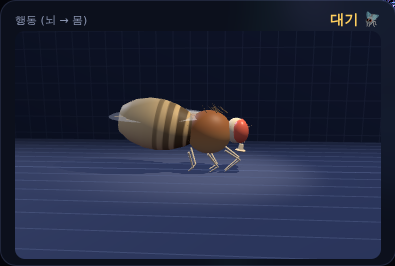
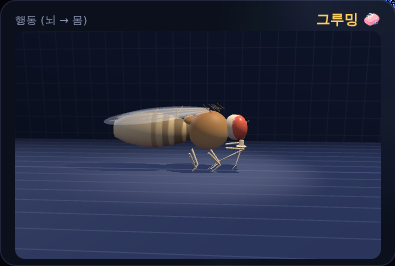
욕조 반신욕 씬 추가 + 몸매 슬림화·날개 파묻힘 수정
- 욕조 소품(도기 셸·테두리 토러스·물 표면·발·와인잔): 에탄올
  0.62~0.85 구간에서 페이드 인, 초파리가 걸어가 뒤로 기대 반신욕
  (물 표면 렌더오더로 하반신 잠김 연출, 잔물결)
- 와인 홀짝은 0.45~0.62 구간으로 조정 — 홀짝 → 반신욕 → 침대 순
  으로 취함 단계가 이어진다
- 복부 유선형 슬림화(최대 반경 -20%, 테이퍼 강화)와 가슴 축소,
  날개 힌지를 위·바깥으로 이동해 복부 파묻힘 제거
- 행동 회귀 테스트 전부 통과

Claude-Session: https://claude.ai/code/session_015GYvxeG6sLQg6feUenvueb

diff --git a/web/js/fly3d.js b/web/js/fly3d.js
@@ -7,6 +7,7 @@ const BOUND = 3.6;        // 걸어다닐 수 있는 x 범위
 const BED_POS = -2.55;    // 침대 위치
 const MATTRESS_TOP = 0.78;
 const PUDDLE_X = 3.0;     // 쏟아진 와인 위치
+const TUB_POS = -0.55;    // 욕조 위치
 
 function bandTexture() {
   // 복부 텍스처. 구를 rotateZ(90°)로 눕혔으므로 몸축 방향이 v(위도)다:
@@ -128,6 +129,8 @@ export class Fly3D {
     this.spill = 0;
     this.standT = 0;           // 난간에 기대 서 있는 정도 0..1
     this.balconyO = 0;
+    this.bathT = 0;            // 욕조에 들어가 있는 정도 0..1
+    this.tubO = 0;
     this.rates = { fwd: 0, back: 0, jump: 0, prob: 0, dn: 0, motor: 0, brain: 0 };
     this.s = { fwd: 0, back: 0, jump: 0, prob: 0 };
     this.behavior = '대기';
@@ -233,26 +236,27 @@ export class Fly3D {
 
     // 복부: 매끈한 방추형 회전체 — 가슴 쪽에서 불룩했다가 꼬리로 뾰족해진다
     const prof = [];
+    // 날렵한 유선형: 최대 반경을 줄이고 더 길게 테이퍼
     const profPts = [
-      [0.02, 0], [0.55, 0.06], [0.86, 0.5], [1.02, 1.05], [1.04, 1.55],
-      [0.94, 2.05], [0.72, 2.55], [0.45, 2.95], [0.2, 3.2], [0.02, 3.32],
+      [0.02, 0], [0.4, 0.06], [0.64, 0.5], [0.78, 1.05], [0.8, 1.6],
+      [0.7, 2.1], [0.53, 2.6], [0.33, 3.0], [0.15, 3.25], [0.02, 3.4],
     ];
     for (const [r, y] of profPts) prof.push(new THREE.Vector2(r, y));
     const abdGeo = new THREE.LatheGeometry(prof, 40);
-    abdGeo.translate(0, -3.32, 0);                   // 끝(꼬리)을 원점 기준으로
+    abdGeo.translate(0, -3.4, 0);                    // 끝(꼬리)을 원점 기준으로
     abdGeo.rotateZ(-Math.PI / 2);                    // +X가 머리 방향, 밴드는 v 방향
     this.abd = M(abdGeo, bodyMat);
-    this.abd.scale.set(1.02, 0.96, 0.9);
-    this.abd.position.set(0.32, 0.33, 0);            // 앞끝을 가슴 속에 파묻는다
-    this.abd.rotation.z = -0.16;                     // 꼬리가 살짝 내려가게
+    this.abd.scale.set(1.06, 0.85, 0.72);
+    this.abd.position.set(0.34, 0.36, 0);            // 앞끝을 가슴 속에 파묻는다
+    this.abd.rotation.z = -0.12;                     // 꼬리가 살짝 내려가게
 
-    this.thx = M(new THREE.SphereGeometry(0.88, 40, 28), thxMat);
-    this.thx.scale.set(1.0, 0.95, 0.86);
-    this.thx.position.set(0.42, 0.36, 0);
+    this.thx = M(new THREE.SphereGeometry(0.8, 40, 28), thxMat);
+    this.thx.scale.set(1.0, 0.95, 0.8);
+    this.thx.position.set(0.45, 0.4, 0);
     // 소순판(scutellum): 가슴 뒤쪽의 작은 혹
-    const scu = M(new THREE.SphereGeometry(0.34, 20, 14), thxMat);
+    const scu = M(new THREE.SphereGeometry(0.3, 20, 14), thxMat);
     scu.scale.set(1.1, 0.7, 0.9);
-    scu.position.set(-0.28, 0.82, 0);
+    scu.position.set(-0.2, 0.82, 0);
 
     this.head = M(new THREE.SphereGeometry(0.5, 32, 24), headMat);
     this.head.scale.set(0.78, 0.98, 0.85);
@@ -322,7 +326,7 @@ export class Fly3D {
     this.wings = [];
     for (const sz of [-1, 1]) {
       const hinge = new THREE.Group();
-      hinge.position.set(0.55, 1.0, sz * 0.13);
+      hinge.position.set(0.5, 1.18, sz * 0.2);       // 복부 위로 띄워 파묻힘 방지
       fly.add(hinge);
       const wmat = new THREE.MeshStandardMaterial({
         color: 0xdfe6f2, transparent: true, opacity: 0.45, side: THREE.DoubleSide,
@@ -341,7 +345,7 @@ export class Fly3D {
         const vg = new THREE.BufferGeometry().setFromPoints(curve.getPoints(20));
         w.add(new THREE.Line(vg, vmat));
       }
-      hinge.rotation.y = sz * 0.13;
+      hinge.rotation.y = sz * 0.17;
       this.wings.push({ hinge, sz });
     }
 
@@ -495,6 +499,41 @@ export class Fly3D {
     building.position.set(2, 5.6, -7.3);
     balG.add(building);
     scene.add(mkFadeGroup(balG));
+
+    // ── 욕조 (만취 반신욕 씬) ──────────────────
+    const tubG = this.tubG = new THREE.Group();
+    const tubMat = new THREE.MeshStandardMaterial({ color: 0xe9edf5, roughness: 0.35, side: THREE.DoubleSide });
+    const shell = new THREE.Mesh(new THREE.CylinderGeometry(1.02, 0.78, 0.85, 28, 1, true), tubMat);
+    shell.scale.set(1.55, 1, 0.85);
+    shell.position.y = 0.52;
+    shell.castShadow = true;
+    const rimT = new THREE.Mesh(new THREE.TorusGeometry(1.0, 0.085, 12, 36), tubMat);
+    rimT.rotation.x = Math.PI / 2;
+    rimT.scale.set(1.55, 0.85, 1);
+    rimT.position.y = 0.95;
+    const tubBottom = new THREE.Mesh(new THREE.CircleGeometry(0.8, 28), tubMat);
+    tubBottom.rotation.x = -Math.PI / 2;
+    tubBottom.scale.set(1.55, 0.85, 1);
+    tubBottom.position.y = 0.12;
+    this.waterMesh = new THREE.Mesh(new THREE.CircleGeometry(0.97, 28),
+      new THREE.MeshStandardMaterial({ color: 0x59b6d8, transparent: true, opacity: 0.72, roughness: 0.15 }));
+    this.waterMesh.rotation.x = -Math.PI / 2;
+    this.waterMesh.scale.set(1.5, 0.8, 1);
+    this.waterMesh.position.y = 0.78;
+    this.waterMesh.renderOrder = 5;
+    this.waterMesh.material.depthWrite = false;
+    for (const [fx2, fz2] of [[-1.25, 0.55], [1.25, 0.55], [-1.25, -0.55], [1.25, -0.55]]) {
+      const foot = new THREE.Mesh(new THREE.SphereGeometry(0.12, 10, 8), tubMat);
+      foot.position.set(fx2, 0.1, fz2);
+      tubG.add(foot);
+    }
+    const tubGlass = new THREE.Mesh(
+      new THREE.CylinderGeometry(0.11, 0.075, 0.26, 14, 1, true),
+      new THREE.MeshStandardMaterial({ color: 0xdfe8fa, roughness: 0.15, transparent: true, opacity: 0.4, side: THREE.DoubleSide }));
+    tubGlass.position.set(1.15, 1.08, 0.45);
+    tubG.add(shell, rimT, tubBottom, this.waterMesh, tubGlass);
+    tubG.position.set(TUB_POS, 0, 0.05);
+    scene.add(mkFadeGroup(tubG));
   }
 
   setRates(r) { Object.assign(this.rates, r); }
@@ -546,7 +585,8 @@ export class Fly3D {
     const flying = this.flightT > 0 && upright > 0.6;
 
     // 와인 홀짝: 쏟아진 와인이 있고 적당히 취했을 때 웅덩이로 걸어가 마신다
-    const wantSip = this.spill > 0.7 && eth > 0.45 && upright > 0.7 &&
+    // (0.62를 넘으면 욕조 반신욕으로 넘어간다)
+    const wantSip = this.spill > 0.7 && eth > 0.45 && eth <= 0.62 && upright > 0.7 &&
                     !flying && this.jumpT < 0 && !feeding && Math.abs(speed) < 0.1;
     let sipping = false, sipWalk = 0;
     if (wantSip) {
@@ -556,10 +596,24 @@ export class Fly3D {
     }
     this.sip += ((sipping ? 1 : 0) - this.sip) * Math.min(1, dt * 3);
 
-    // 난간 흡연: 니코틴이 있으면 난간으로 걸어가 두 발로 서서 태운다
+    // 욕조 반신욕: 만취 구간(0.62~0.85)이면 욕조로 걸어가 몸을 담근다
+    const wantBath = eth > 0.62 && upright > 0.7 && !flying && this.jumpT < 0 && !feeding;
+    let bathWalk = 0, bathing = false;
+    if (wantBath) {
+      const dxb = TUB_POS - this.x;
+      if (Math.abs(dxb) > 0.15 && this.bathT < 0.3) { bathWalk = Math.sign(dxb); this.dir = Math.sign(dxb) || 1; }
+      else { bathing = true; this.dir = 1; }
+    }
+    this.bathT += ((bathing ? 1 : 0) - this.bathT) * Math.min(1, dt * 2);
+    this.tubO += (((eth > 0.62 && this.passT < 0.3) ? 1 : 0) - this.tubO) * Math.min(1, dt * 2);
+    this._fade(this.tubG, this.tubO);
+    this.waterMesh.position.y = 0.78 + Math.sin(this.t * 2.4) * 0.012;
+
+    // 난간 흡연: 니코틴이 있으면 난간으로 걸어가 두 발로 서서 태운다 (욕조 중엔 안 함)
     const STAND_X = 0.62;
     const wantStand = this.nic > 0.2 && upright > 0.7 && !flying && this.jumpT < 0 &&
-                      !sipping && sipWalk === 0 && !feeding && Math.abs(speed) < 0.12;
+                      !sipping && sipWalk === 0 && !feeding && Math.abs(speed) < 0.12 &&
+                      !wantBath && this.bathT < 0.2;
     let standWalk = 0, standing = false;
     if (wantStand) {
       const dxs = STAND_X - this.x;
@@ -577,7 +631,8 @@ export class Fly3D {
 
     // 그루밍: 한가할 때 가끔 앞다리를 비빈다
     const idle = !walkingLikely(speed, sipWalk) && !flying && this.jumpT < 0 &&
-                 upright > 0.9 && !feeding && !sipping && this.hicT <= 0 && this.standT < 0.2;
+                 upright > 0.9 && !feeding && !sipping && this.hicT <= 0 &&
+                 this.standT < 0.2 && this.bathT < 0.2;
     function walkingLikely(sp, sw) { return Math.abs(sp) > 0.06 || sw !== 0; }
     if (idle && this.groomT <= 0 && Math.random() < dt * 0.12) this.groomT = 2.6;
     if (!idle) this.groomT = 0;
@@ -604,7 +659,9 @@ export class Fly3D {
     // ── 이동 ─────────────────────────────────
     let vx = 0;
     if (this.jumpT < 0 && upright > 0.6 && !flying) {
-      vx = ((sipWalk || standWalk) !== 0 ? (sipWalk || standWalk) * 1.3 : speed * 2.3 * this.dir) * upright * (1 - this.standT);
+      const propWalk = sipWalk || standWalk || bathWalk;
+      vx = (propWalk !== 0 ? propWalk * 1.3 : speed * 2.3 * this.dir) * upright *
+           (1 - this.standT) * (1 - this.bathT);
       if (eth > 0.1) {
         this._staggerVx += (Math.random() - 0.5) * eth * 6.5 * dt;
         this._staggerVx *= 1 - Math.min(1, dt * 2.5);
@@ -614,13 +671,15 @@ export class Fly3D {
     if (flying) vx = (0 - this.x) * 0.35 + Math.sin(this.t * 2.3) * 0.7;
     this.x += vx * dt;
     if (this.standT > 0.3) this.x += (STAND_X - this.x) * Math.min(1, dt * 4) * this.standT;
+    if (this.bathT > 0.3) this.x += (TUB_POS - this.x) * Math.min(1, dt * 4) * this.bathT;
     if (this.passT > 0.05) this.x += (BED_POS - this.x) * Math.min(1, dt * 2.5) * this.passT;
     if (this.x < -BOUND) { this.x = -BOUND; this.dir = 1; }
     if (this.x > BOUND) { this.x = BOUND; this.dir = -1; }
 
     // ── 자세 ─────────────────────────────────
-    const walking = (Math.abs(speed) > 0.06 || sipWalk !== 0 || standWalk !== 0) &&
-                    this.jumpT < 0 && upright > 0.6 && !flying && this.standT < 0.6;
+    const walking = (Math.abs(speed) > 0.06 || sipWalk !== 0 || standWalk !== 0 || bathWalk !== 0) &&
+                    this.jumpT < 0 && upright > 0.6 && !flying &&
+                    this.standT < 0.6 && this.bathT < 0.6;
     this.walkPhase += dt * (walking ? 10 + 14 * Math.max(Math.abs(speed), 0.5) : 1.2);
 
     let y = 1.18;
@@ -645,6 +704,8 @@ export class Fly3D {
     if (this.sip > 0.05) rotZ += this.sip * 0.22;   // 홀짝: 웅덩이로 숙임
     rotZ += this.standT * 0.88;                     // 난간: 두 발로 선다 (코 위로)
     y += this.standT * 0.95;
+    rotZ += this.bathT * 0.62;                      // 욕조: 뒤로 기대 반신욕
+    y -= this.bathT * 0.34;
     rotZ += this.passT * 0.35;
     y += this.passT * (MATTRESS_TOP + 0.62 - 1.18);
     if (this.passT > 0.3) y += Math.sin(this.t * 1.1) * 0.045;
@@ -659,6 +720,9 @@ export class Fly3D {
         swing = 0.5; femurDown = 1.9; knee = -0.35; splay = 0.85;
       } else if (this.jumpT >= 0 || flying) {       // 접기
         swing = -0.4; femurDown = 0.7; knee = -2.1; splay = 0.35;
+      } else if (this.bathT > 0.5) {                // 욕조: 앞다리는 테두리에, 나머진 물속
+        const st = [[0.95, 0.35, -0.5], [0.3, 0.8, -1.9], [-0.3, 0.9, -2.0]][leg.idx];
+        swing = st[0]; femurDown = st[1]; knee = st[2]; splay = 0.3;
       } else if (this.standT > 0.5) {               // 난간에 기대 섬
         // 몸이 0.88rad 젖혀지므로 다리 각도는 그만큼 되돌린다.
         // 앞다리: 난간 위에 걸침 / 중간: 몸 옆에 늘어짐 / 뒷다리: 바닥 지탱
@@ -691,9 +755,9 @@ export class Fly3D {
     // ── 날개 ─────────────────────────────────
     const flutter = (this.jumpT >= 0 || flying) ? 1 : (walking ? 0.12 : 0.025);
     const wa = Math.sin(this.t * 80) * (flying ? 0.9 : 0.5) * flutter;
-    const droop = this.passT * 0.55 + eth * upright * 0.08;
+    const droop = this.passT * 0.55 + eth * upright * 0.08 + this.bathT * 0.4;
     for (const { hinge, sz } of this.wings) {
-      hinge.rotation.y = sz * (0.13 + droop * 0.6) + wa * sz;
+      hinge.rotation.y = sz * (0.17 + droop * 0.6) + wa * sz;
       hinge.rotation.z = wa * 0.4 - droop * 0.25 + (flying ? 0.35 : 0);
     }
 
@@ -731,6 +795,7 @@ export class Fly3D {
       this.passT > 0.5 ? '침대에 뻗음 💫' :
       this.jumpT >= 0 ? '점프! ⚡' :
       flying ? '비행 🪽' :
+      this.bathT > 0.5 ? '욕조 반신욕 🛁🍷' :
       sipping || this.sip > 0.4 ? '와인 홀짝 🍷' :
       this.hicT > 0 ? '딸꾹! 🫧' :
       speed < -0.06 ? '문워크 🕺' :
